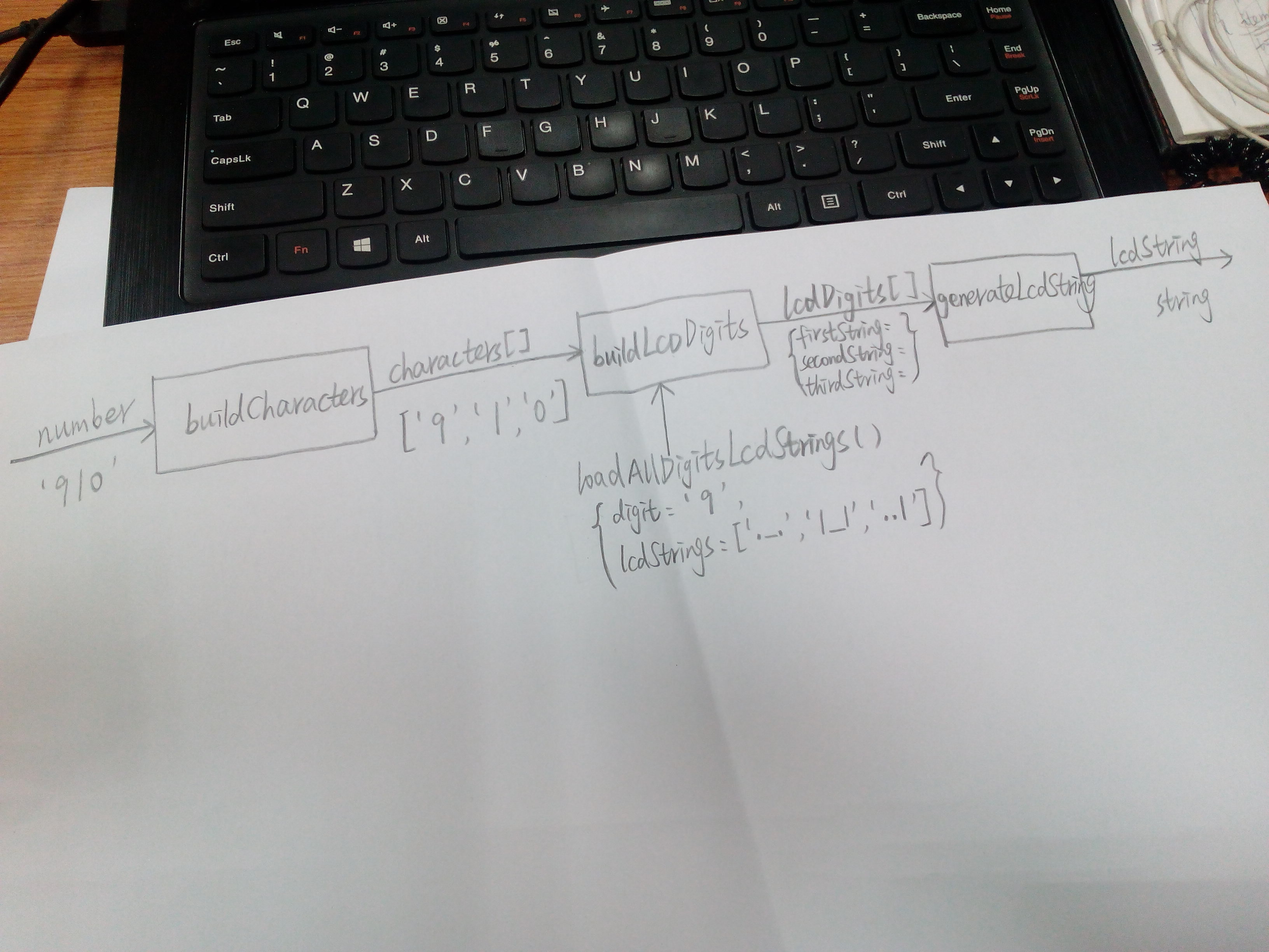
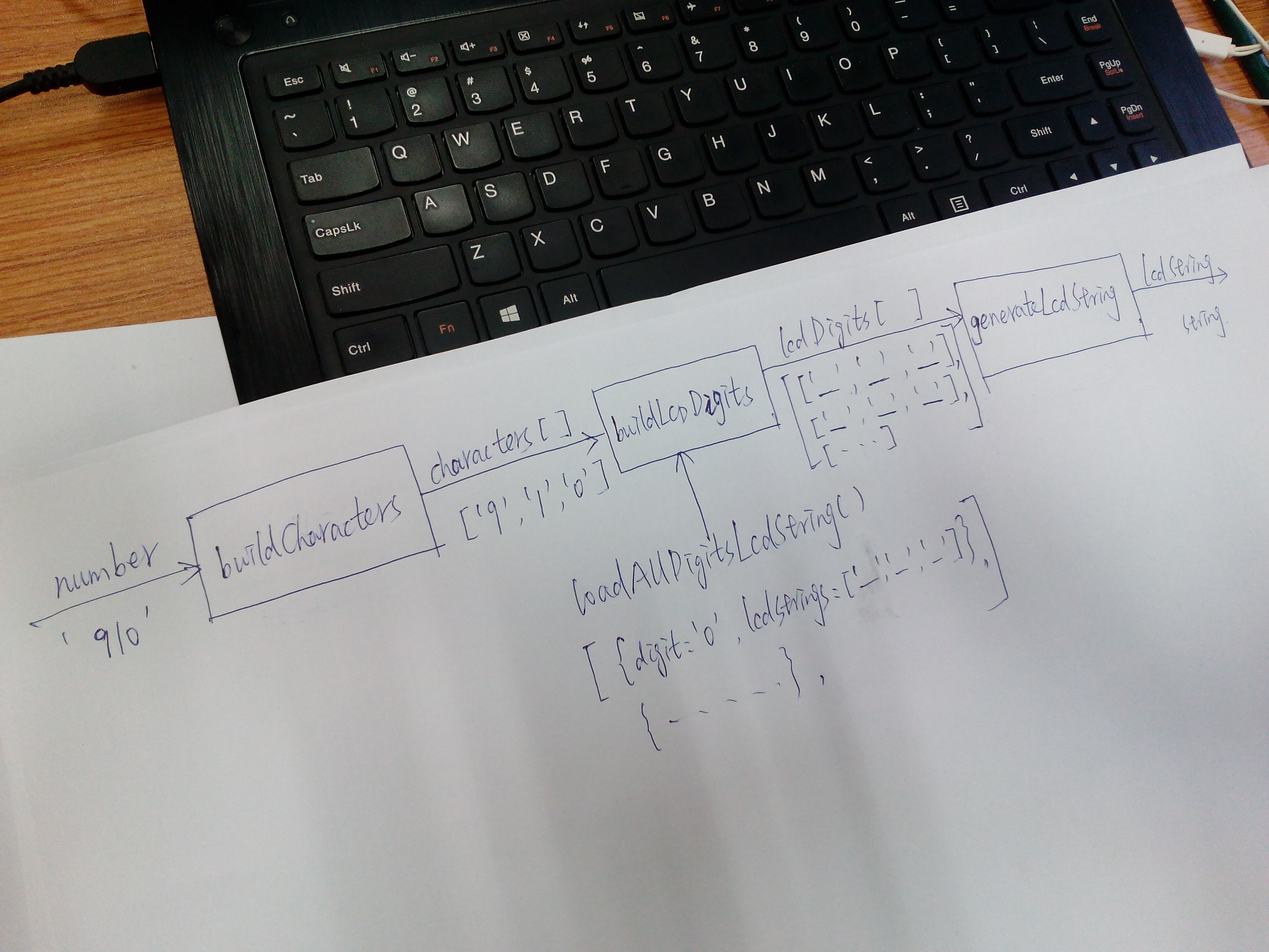
modified structure of the program

diff --git a/lcd-digits/main/main.js b/lcd-digits/main/main.js
@@ -26,14 +26,8 @@ function findLcdStrings(characters, allDigitsLcdStrings) {
 function buildLcdDigits(characters, allDigitsLcdStrings) {
 
     var lcdDigits = [];
-
     characters.forEach(function (character) {
-        var lcdStrings = findLcdStrings(character, allDigitsLcdStrings);
-        lcdDigits.push({
-            firstString: lcdStrings[0],
-            secondString: lcdStrings[1],
-            thirdString: lcdStrings[2]
-        });
+        lcdDigits.push(findLcdStrings(character, allDigitsLcdStrings));
     });
 
     return lcdDigits;
@@ -41,45 +35,18 @@ function buildLcdDigits(characters, allDigitsLcdStrings) {
 
 function generateLcdString(lcdDigits) {
 
-    return generateFirstLineLcdString(lcdDigits) +
-        generateSecondLineLcdString(lcdDigits) +
-        generateThirdLineLcdString(lcdDigits);
-}
+    var lcdString = '';
 
-function generateFirstLineLcdString(lcdDigits) {
+    for (var k = 0; k < 3; k++) {
+        for (var i = 0; i < lcdDigits.length - 1; i++) {
+            lcdString += lcdDigits[i][k] + ' ';
+        }
+        lcdString += lcdDigits[lcdDigits.length - 1][k];
 
-    var firstLineLcdString = '';
-    for (var i = 0; i < lcdDigits.length; i++) {
-        firstLineLcdString += lcdDigits[i].firstString;
-        if (i < lcdDigits.length - 1)
-            firstLineLcdString += ' ';
+        if (k < 2)
+            lcdString += '\n';
     }
-
-    return firstLineLcdString;
-}
-
-function generateSecondLineLcdString(lcdDigits) {
-
-    var secondLineLcdString = '\n';
-    for (var i = 0; i < lcdDigits.length; i++) {
-        secondLineLcdString += lcdDigits[i].secondString;
-        if (i < lcdDigits.length - 1)
-            secondLineLcdString += ' ';
-    }
-
-    return secondLineLcdString;
-}
-
-function generateThirdLineLcdString(lcdDigits) {
-
-    var thirdLineLcdString = '\n';
-    for (var i = 0; i < lcdDigits.length; i++) {
-        thirdLineLcdString += lcdDigits[i].thirdString;
-        if (i < lcdDigits.length - 1)
-            thirdLineLcdString += ' ';
-    }
-
-    return thirdLineLcdString;
+    return lcdString;
 }
 
 function loadAllDigitsLcdStrings() {

diff --git a/lcd-digits/test/main-test.js b/lcd-digits/test/main-test.js
@@ -18,23 +18,12 @@ describe('Unit Test', function () {
     describe('build a array of called lcdDigits', function () {
 
         it('should print correct lcdDigits', function () {
-            var expectLcdDigits = [
-                {
-                    firstString: '._.',
-                    secondString:'|_|',
-                    thirdString: '..|'
-                },
-                {
-                    firstString: '...',
-                    secondString:'..|',
-                    thirdString: '..|'
-                },
-                {
-                    firstString: '._.',
-                    secondString:'|.|',
-                    thirdString: '|_|'
-                }
-            ];
+            var expectLcdDigits =
+                [
+                    ['._.', '|_|', '..|'],
+                    ['...', '..|', '..|'],
+                    ['._.', '|.|', '|_|']
+                ];
 
             expect(buildLcdDigits(['9', '1', '0'], allDigitsLcdStrings)).toEqual(expectLcdDigits);
         });
